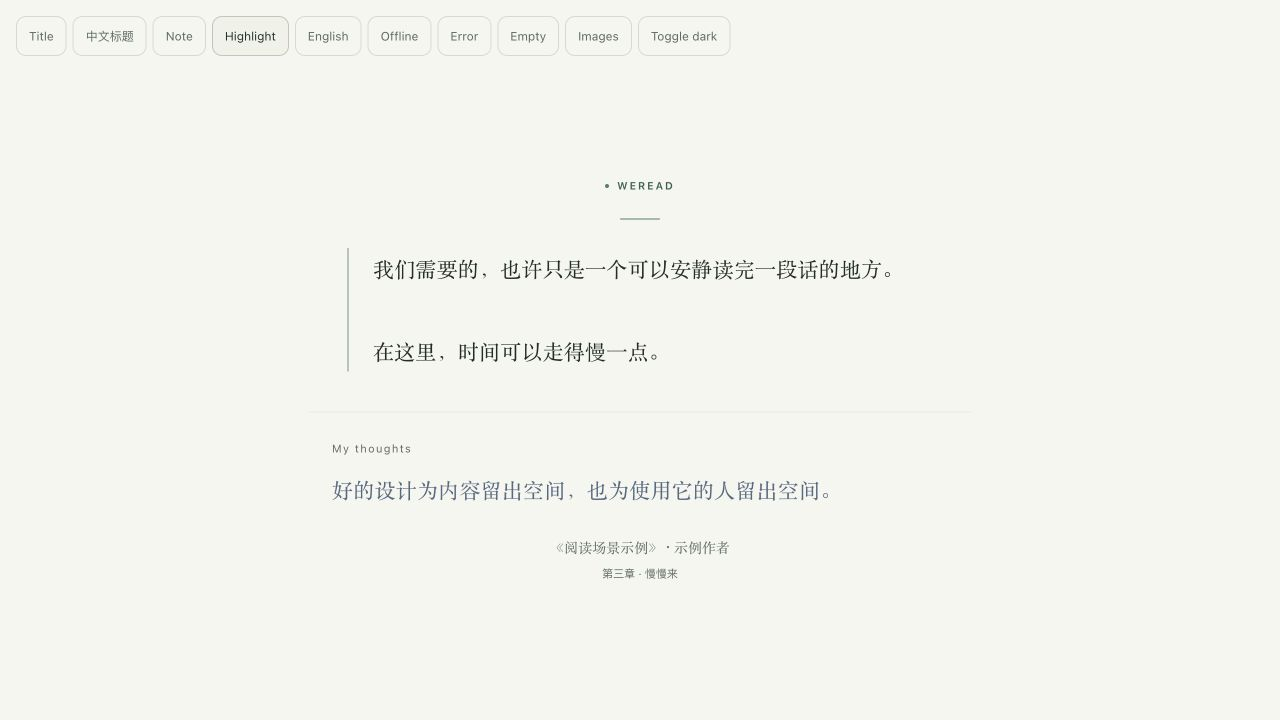
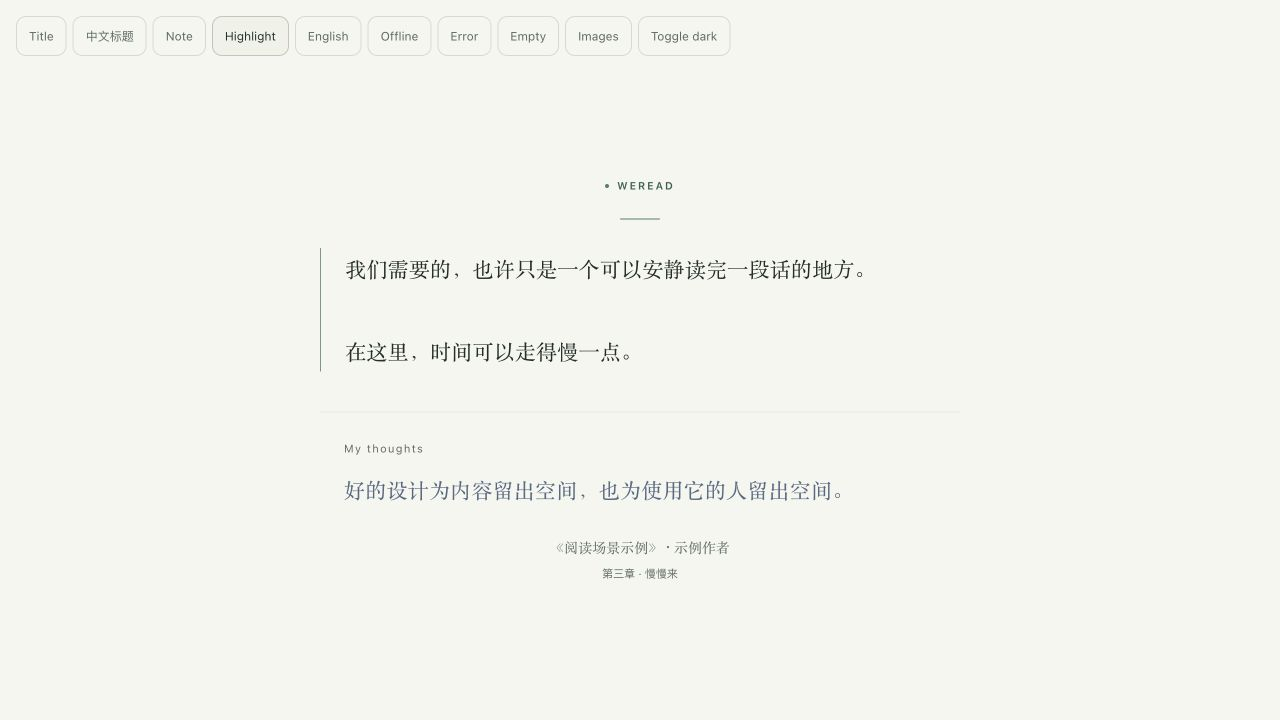
perf: bound reading updates and record polish verification

diff --git a/frontend/src/index.css b/frontend/src/index.css
@@ -513,11 +513,11 @@ html, body {
 .reading-meta .font-mono { font-family:inherit; }
 .reading-meta-hn { display:flex; flex-direction:column; align-items:center; gap:7px; }
 .reading-meta-domain { font-size:12px; letter-spacing:.015em; overflow-wrap:anywhere; }
-.reading-meta-details { display:inline-flex; flex-wrap:wrap; align-items:center; justify-content:center; gap:6px 16px; font-size:11px; opacity:.85; }
+.reading-meta-details { display:inline-flex; flex-wrap:wrap; align-items:center; justify-content:center; gap:6px 16px; font-size:12px; }
 .reading-meta a { text-underline-offset:4px; text-decoration-color:transparent; transition:text-decoration-color var(--ui-duration) var(--ui-ease); }
 .reading-meta a:hover { text-decoration:underline; text-decoration-color:currentColor; }
-.reading-content[data-content-kind="body"] .reading-primary { max-width:58ch; }
-.reading-content[data-primary-kind="highlight"] .reading-quote { max-width:58ch; padding-left:clamp(16px,2vw,24px); border-left-width:1px; }
+.reading-content[data-content-kind="body"] .reading-column { max-width:640px; }
+.reading-content[data-primary-kind="highlight"] .reading-quote { max-width:640px; padding-left:clamp(16px,2vw,24px); border-left-width:1px; }
 .reading-content[data-content-kind="body"] > .reading-meta { margin-top:26px; }
 .reading-content[data-content-kind="body"] .reading-primary { hanging-punctuation:first last; }
 @media(max-width:640px) {

diff --git a/frontend/src/components/ZenMode.tsx b/frontend/src/components/ZenMode.tsx
@@ -47,10 +47,11 @@ function FadingScroll({ children, maxHeightVh }: { children: React.ReactNode; ma
     const node = scrollRef.current
     if (!node) return
     const overflow = node.scrollHeight - node.clientHeight > 1
-    setFade({
+    const next = {
       top: overflow && node.scrollTop > 1,
       bottom: overflow && node.scrollTop + node.clientHeight < node.scrollHeight - 1,
-    })
+    }
+    setFade(previous => previous.top === next.top && previous.bottom === next.bottom ? previous : next)
   }, [])
 
   useEffect(() => {
@@ -120,7 +121,7 @@ export function ZenContent({ item, dark }: { item: DiscoveryItem; dark: boolean 
   const isChineseBody = contentKind === "body" && hasChineseText(bodyText)
   const secondaryTextAlign = secondary ? (hasChineseText(secondary) ? 'justify' as const : 'left' as const) : undefined
   const bodyScroll = contentKind === "body" ? (contentScrollable ?? { maxHeightVh: 55 }) : null
-  const readingColumnClass = "mx-auto w-full max-w-[680px]"
+  const readingColumnClass = "reading-column mx-auto w-full max-w-[680px]"
 
   const primaryStyle = {
     // Keep the semantic hierarchy stable across sources. Wikipedia and HN

diff --git a/frontend/src/components/zen/theme-scenes.css b/frontend/src/components/zen/theme-scenes.css
@@ -3,7 +3,7 @@
 .theme-backdrop, .theme-scene { position: absolute; inset: 0; pointer-events: none; overflow: hidden; }
 .theme-backdrop { isolation: isolate; }
 .theme-backdrop[data-paused="true"] * { animation-play-state: paused !important; }
-.theme-preview * { animation: none !important; }
+.theme-preview * { animation: none !important; will-change: auto !important; }
 
 .auto-theme-preview { background: linear-gradient(145deg, #f7f8f5, #edf3f1); }
 .auto-theme-preview svg { position: absolute; inset: 0; width: 100%; height: 100%; }

diff --git a/docs/polish-2026-10-25.md b/docs/polish-2026-10-25.md
@@ -1,0 +1,27 @@
+# 阅读与视觉完成度精修 · 2026-10-25
+
+## 交付
+
+- 异常状态：共享 ResilientImage 防止破图，URL 更新后可恢复。数据源 Logo 原本已随应用打包，本次观察到的集中破图来自本地服务停止；现已恢复服务。
+- 无内容时新增离线、失败、空内容界面，提供重试和数据源入口。离线时保留已显示内容。
+- 语言入口明确为 Reading language，说明文章语言与界面语言的区别。
+- 阅读：按显示文字的中英文宽度控制长标题字号；正文和摘录使用稳定阅读列；HN 来源与社区信息分层，评论可直接打开。
+- 收藏：列表更平整，关闭后重新打开保留滚动位置。焦点范围排除隐藏或不可 Tab 到达的控件；Escape 可先关闭来源 Tooltip。
+- 性能：长文滚动仅在边缘淡出状态改变时触发更新；静态封面取消 will-change。复审海洋、水波纹、篝火、雨后和竹林，保留已认可画面与主题顺序。
+
+## 证据
+
+- 68 项测试、lint、Web/插件构建、回归脚本、diff check 通过。
+- 浏览器验证：失败图片不露破图，换成有效 URL 后恢复；5 个来源 Logo 均成功加载；收藏位置关闭前后均为 456px；Tooltip Escape 后面板仍在。
+- 离线模拟：navigator.onLine=false 时显示离线提示，当前阅读内容仍在。已恢复网络模拟。
+- 375px 窄屏检查无横向溢出，已恢复尺寸；减少动态效果下竹林动画为 none，已清除模拟。
+- 水波纹采样 180 帧：中位间隔约16.7ms，最大18.7ms，20个固定水环，背景1层。此为本机短采样，不是低性能设备基准。
+- 篝火→雨后采样150帧：背景最小覆盖1，最多2层，结束1层。
+- 在真实 Chrome 确认本地扩展 likeldlafpbeoddjcpmkmncadnmbkeai 来源为 ~/Developer/glimmer/frontend/dist/extension，重新加载后新排版可见。未重新测试同步开关、真实账号连接或低性能设备。
+- 插件构建包含全部来源图标，不包含开发验收页；权限仍为 storage / unlimitedStorage。
+- 页面截图位于 docs/screenshots/2026-10-25/polish/，固定内容样例明确标为验收用途。
+
+## 回退与发布边界
+
+- 本轮前基线 c5ae93f；异常状态提交 b21d3a9；阅读精修提交 f6b2185。
+- 用户要求停止额外验证并推送当前分支。未升版本、未生成新发行 ZIP、未提交 Chrome 商店；开发 manifest 仍为2.2.2。
